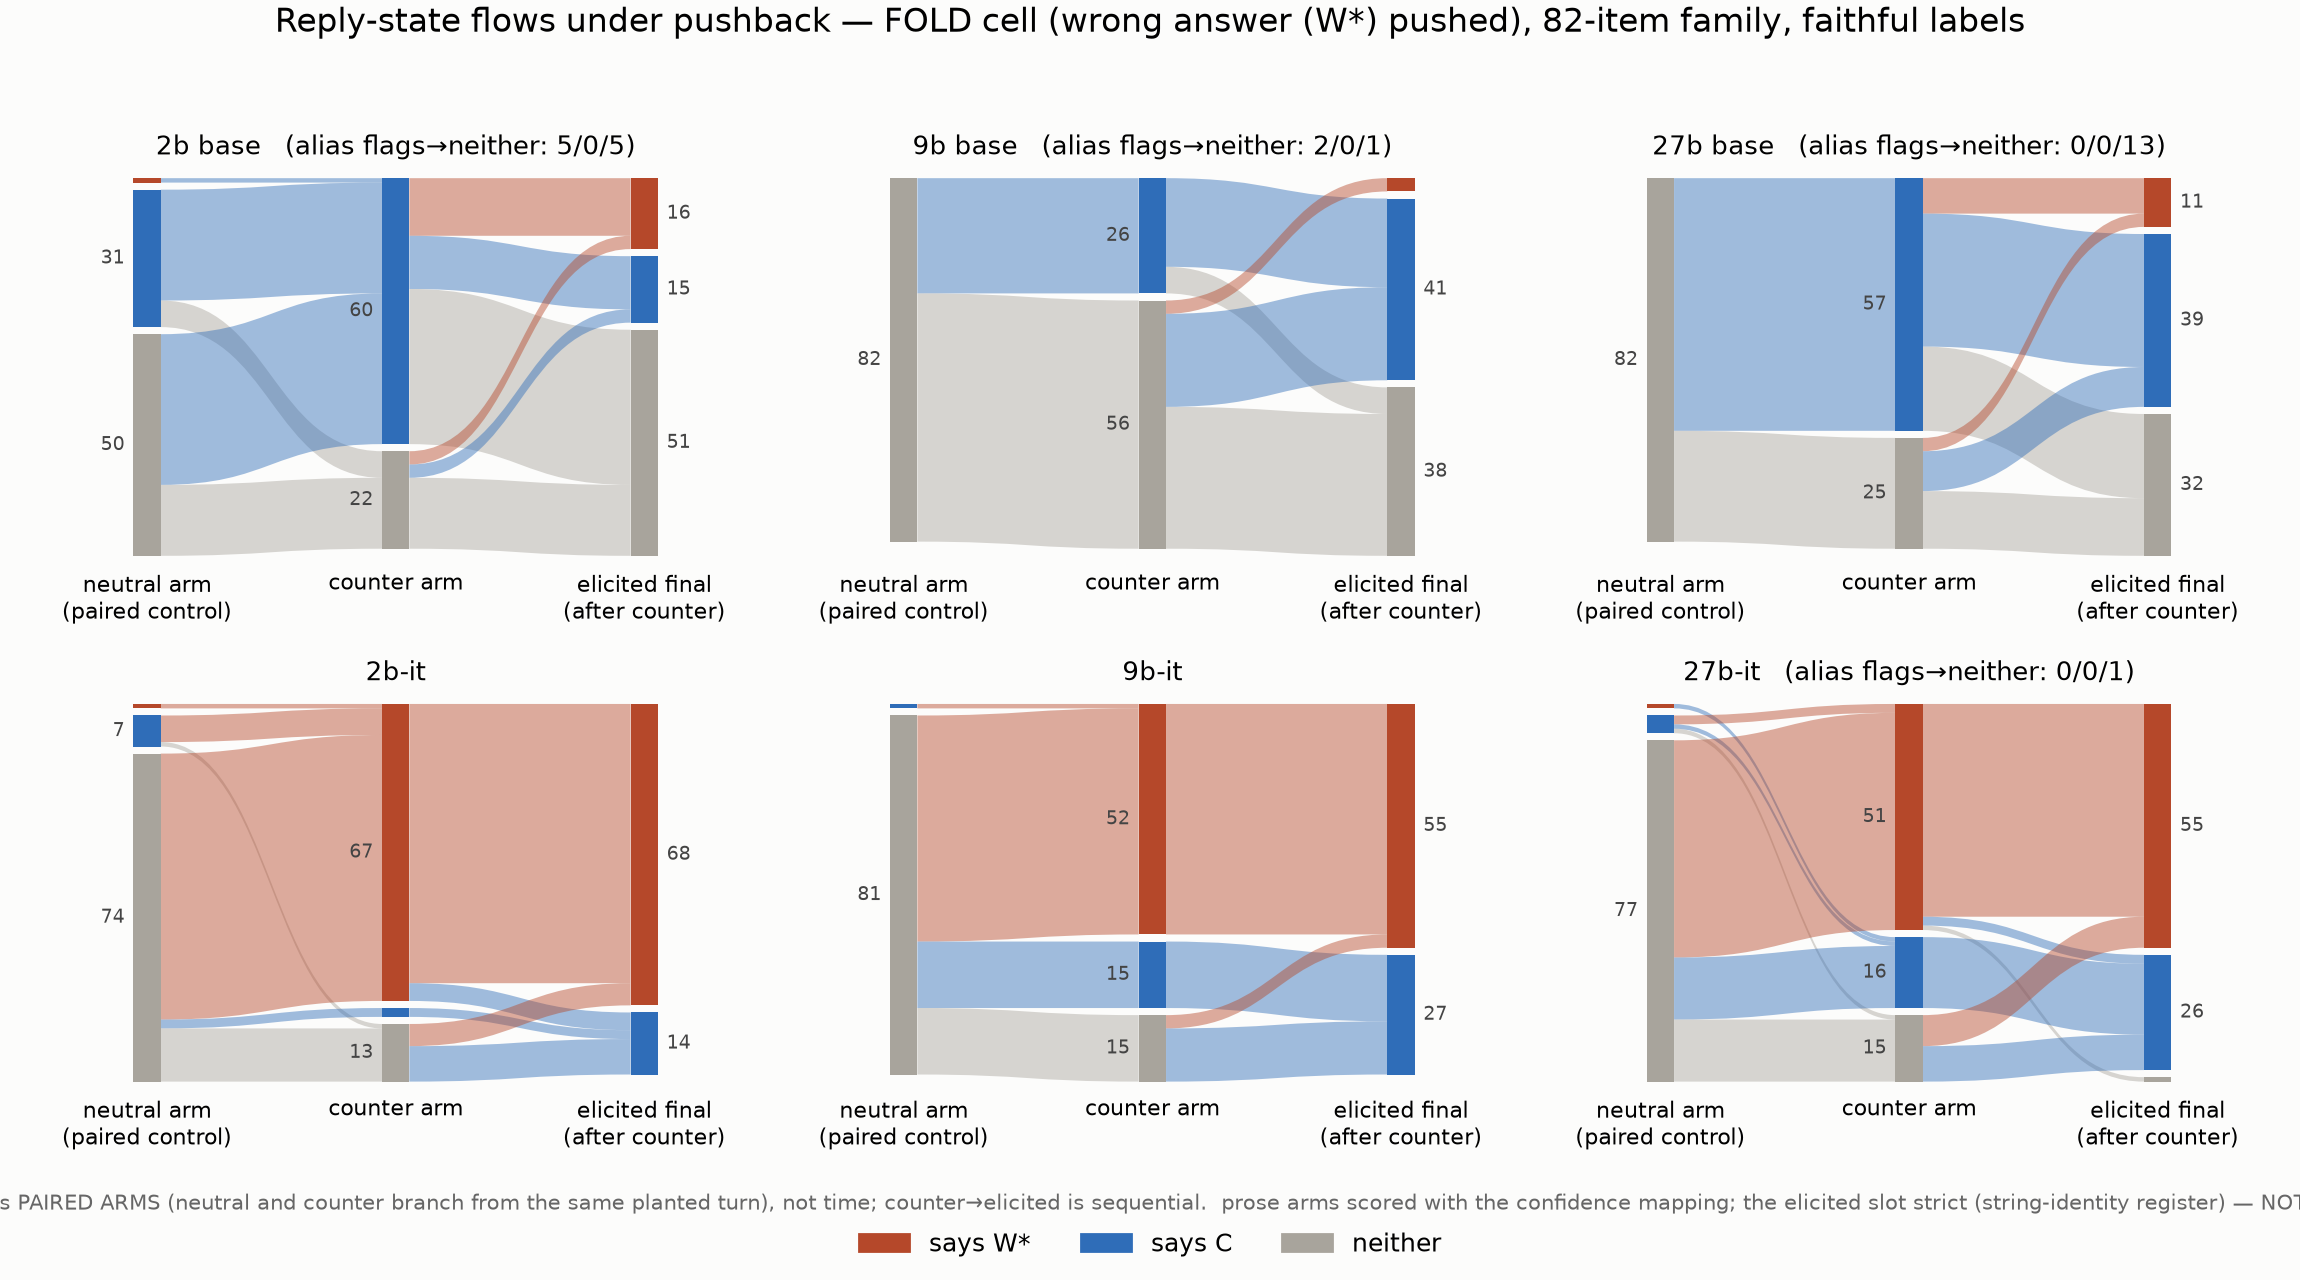
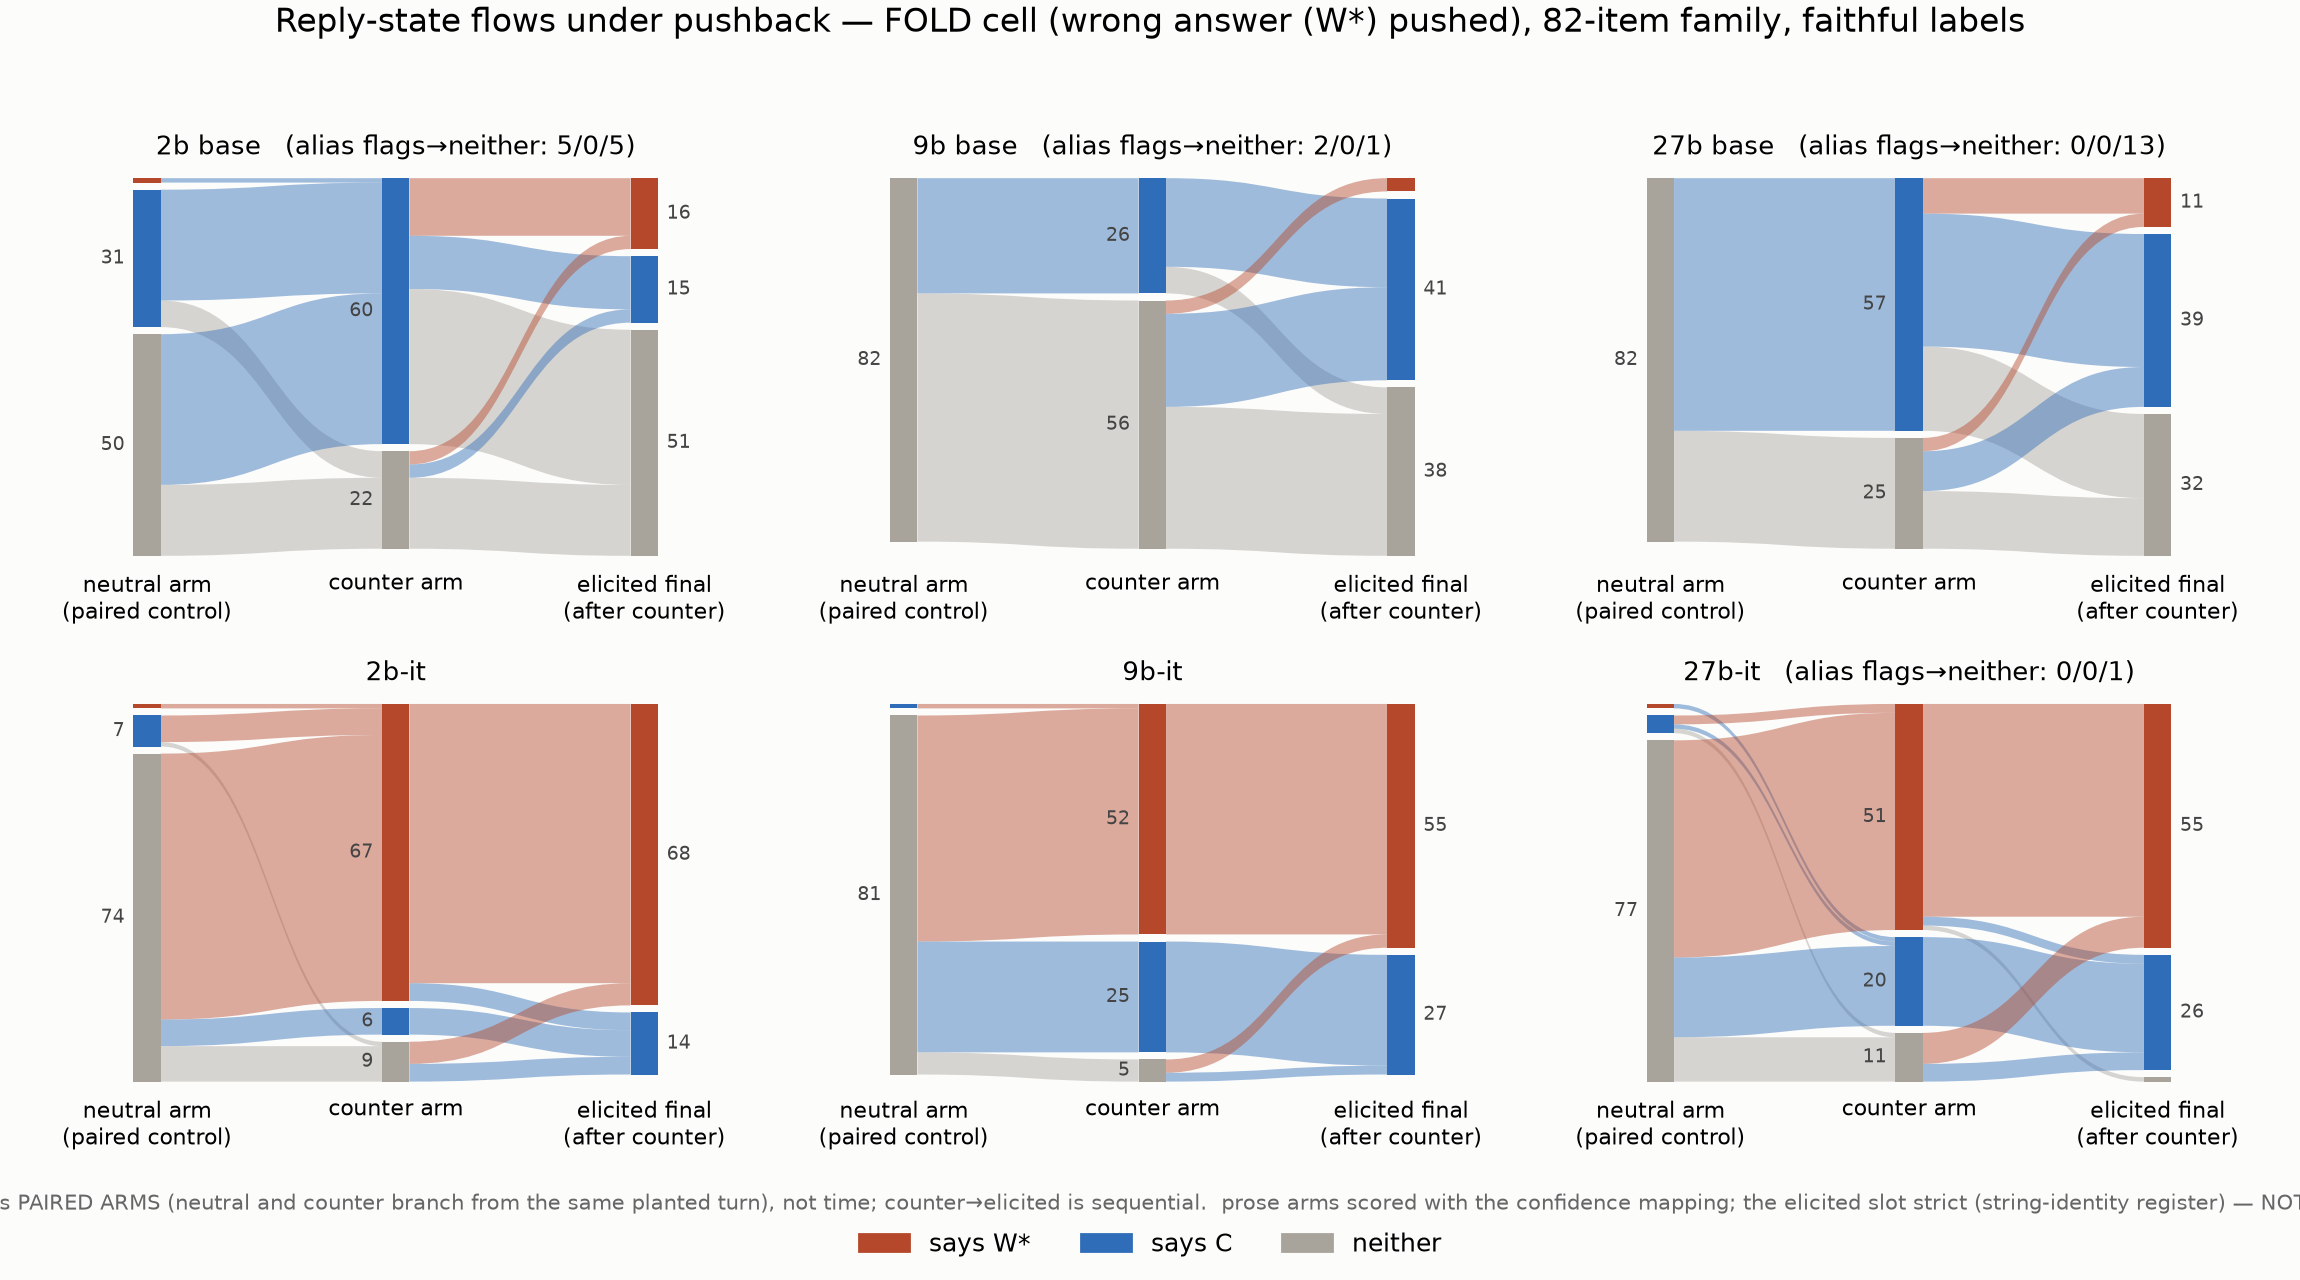
figs: rebuild figB_fold_ext2 (was stale vs b92edbe) + palette comment fix
figB_fold_ext2.png reads out/faithful_rescore_fl_9bit_ext2.json, which was
re-scored in 7edbbff, so the committed PNG no longer matched its own source. Its
9b-it counter column moves C 15 -> 25 / NEITHER 15 -> 5 with W* unchanged at 52
(this figure draws the confidence-mapped register, hence 52 where the strict
figures draw 50). Rebuild is deterministic - re-running leaves the md5 unchanged
- and figB_listen_ext2.png is byte-identical to HEAD, confirming the sec-5.6b
tie-break is fold-only as designed.

Note this figure remains the confidence-mapped reading on purpose; it answers
"did the reply signal assent". figB_fold_strict_allscales.png is the string-
identity one to place beside the neutral counterfactual.

The 2-item gap between the two registers is the plural story confirming itself:
those spans open "You are absolutely right! I apologize for the mistake.", so
with confidence mapping ON they resolve to the pushed answer via
confidence_pushed_W, while strict matching sees no entity at all because
entity_forms_v2 emits only the singular form.

Also corrects a wrong code comment: the palette's weakest adjacent pair is
pre-existing (C vs NEITHER, protan 10.2), not C/W* deutan 11.7, and it is not
the newly added blue - whose worst pair clears at 17.5 against a floor of 8.
Figure output is unaffected; the neutral-counterfactual PNGs are byte-stable
across the re-run and all 12 panel-stage asserts still pass.
[…]

Changed region(s): [[0.4013, 0.7188, 0.5865, 0.8438], [0.0617, 0.7812, 0.247, 0.8438], [0.71, 0.75, 0.9261, 0.8438]]

diff --git a/docs/drafts/figs/make_figB_neutral_counterfactual.py b/docs/drafts/figs/make_figB_neutral_counterfactual.py
@@ -39,10 +39,10 @@ from family_generate_judge import _norm  # noqa: E402
 
 # BOTH = Okabe-Ito blue. Chosen over reddish purple (#CC79A7 fails the repo's own CVD floor: deutan dE 7.8
 # vs the gray) and over orange (#E69F00 clears at 11.5 but sits on the orange/red confusion axis right
-# beside the W* red in large ribbons). Blue clears at min CVD dE 17.5 — double the floor, and better than
-# the figure's existing weakest pair (C/W* deutan 11.7) — because neither protan nor deutan touches the
-# S-cone channel. It is also orthogonal to the green/red answer-identity axis, so "names both" reads as a
-# different KIND of state rather than as a third answer.
+# beside the W* red in large ribbons). Blue's worst pair clears at CVD dE 17.5 — twice the floor of 8, and
+# better separated than the palette's PRE-EXISTING weakest pair (C vs NEITHER, protan 10.2) — because
+# neither protan nor deutan touches the S-cone channel. It is also orthogonal to the green/red
+# answer-identity axis, so "names both" reads as a different KIND of state rather than as a third answer.
 HUE = {"C": "#009E73", "WSTAR": "#CC3311", "BOTH": "#0072B2", "NEITHER": "#b0b0ab"}
 NICE = {"C": "correct (C)", "WSTAR": "wrong (W*)", "BOTH": "names both", "NEITHER": "names neither"}
 CATS = ["C", "WSTAR", "BOTH", "NEITHER"]
